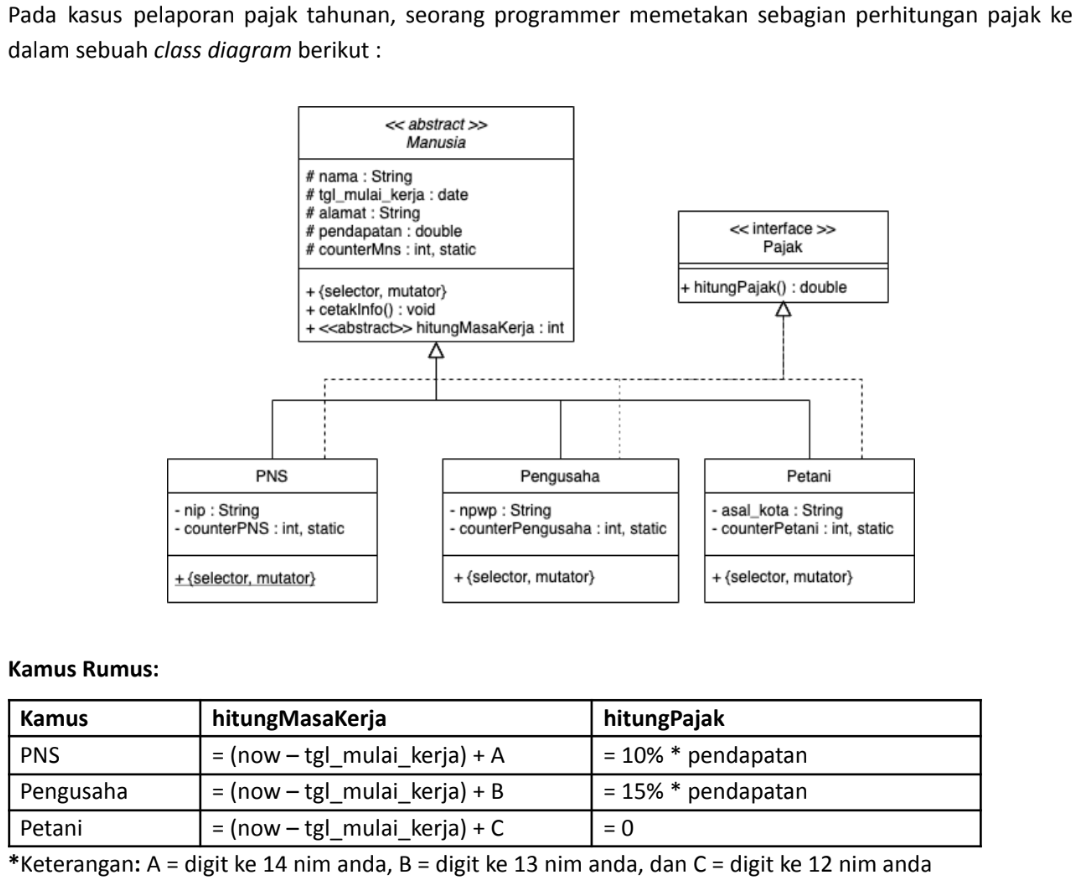
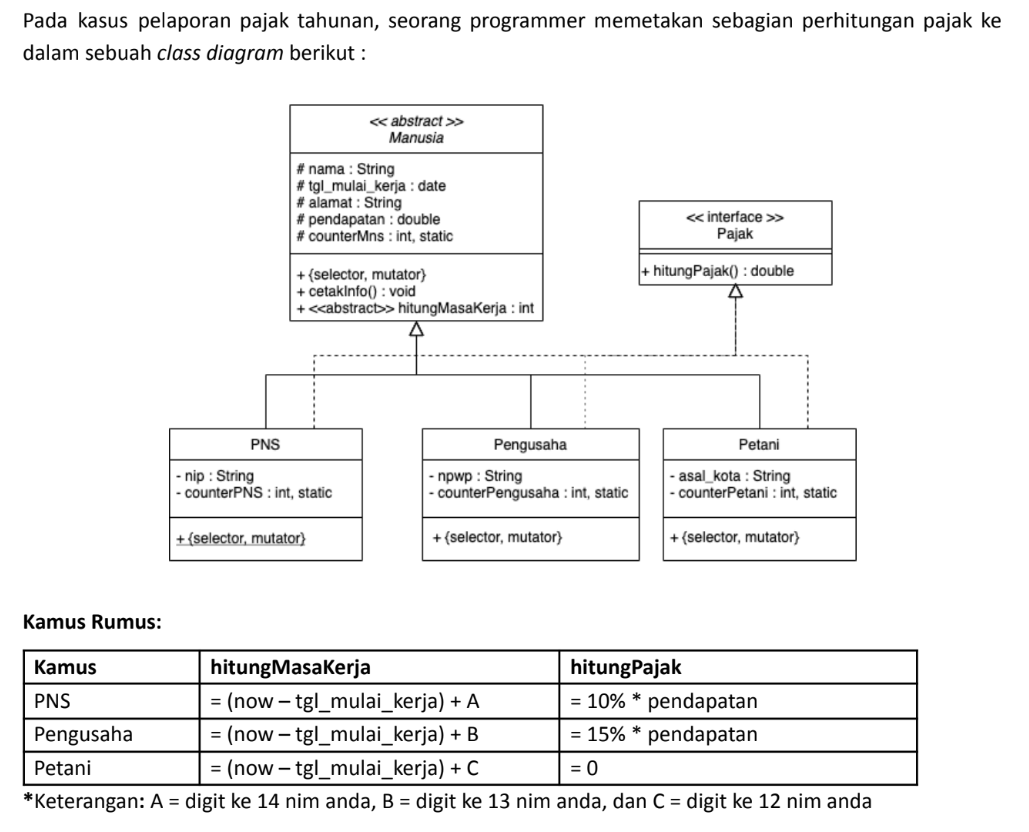
rapiin readme

Changed region(s): [[0.0, 0.0, 0.9951, 0.6875], [0.0, 0.7188, 0.9329, 1.0]]

diff --git a/Pertemuan5/src/TugasPelaporanPajakTahunan/README.md b/Pertemuan5/src/TugasPelaporanPajakTahunan/README.md
@@ -1,5 +1,5 @@
 ## Latihan
 
 <p align="center">
-  <img src="img/latihan.png" width="1000"/>
+  <img src="img/latihan.png" width="700"/>
 </p>
